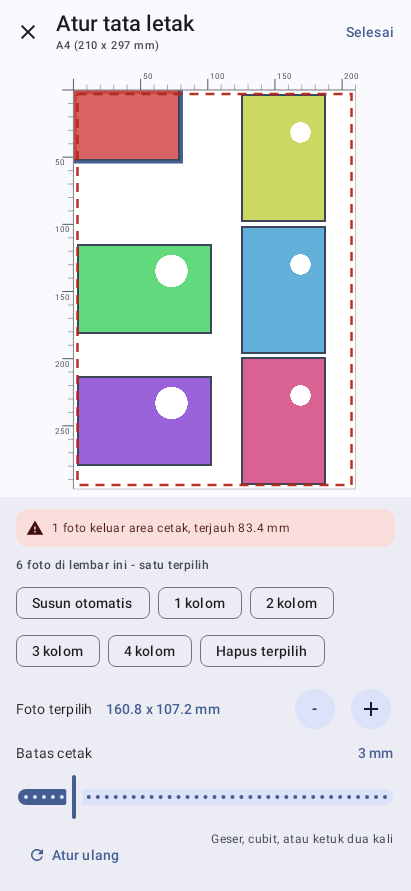
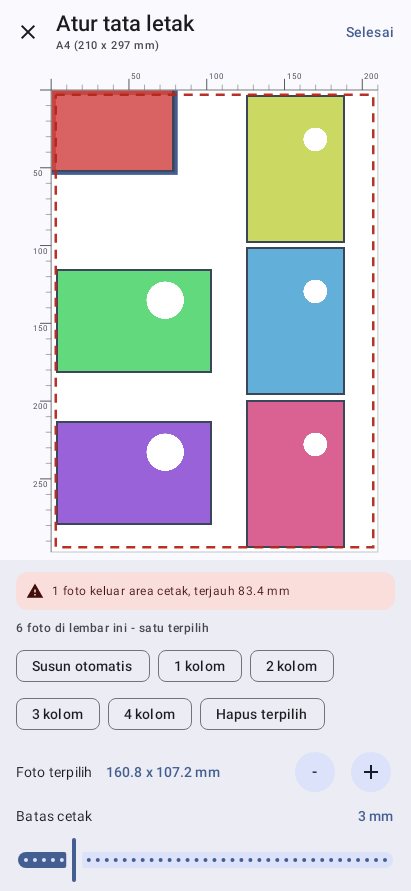
Ukuran kertas di editor tidak lagi berubah-ubah saat menggeser
Kertas mengambil "sisa ruang" setelah bilah kontrol, sedangkan tinggi bilah itu
berubah mengikuti isinya: peringatan terpotong muncul dan hilang, dan baris
margin melipat jadi dua ketika angkanya memanjang. Akibatnya kertas menyusut dan
membesar sendiri di tengah geseran.

Dampaknya bukan hanya kedipan. Skala kertas ikut berubah, sehingga jarak yang
sama di layar berarti milimeter yang berbeda -- gambar melompat. Lebih parah
lagi, PagePreview memakai skala dan posisi kertas sebagai kunci pointerInput,
dan mengubah kunci itu merestart detektor gestur sehingga sentuhan yang sedang
berjalan terputus. Itu yang membuat geseran terasa patah-patah.

Dua perbaikan:

1. Kertas dan bilah kontrol dibagi menurut bobot tetap dari tinggi layar, bukan
   menurut isi. Isi kontrol yang tidak muat digulir, bukan mendorong kertas
   mengecil.

2. Blok gestur di PagePreview dibuat stabil. Skala, titik asal, dan callback
   dibaca lewat rememberUpdatedState, sehingga detektor tidak pernah direstart
   walau kertas berganti ukuran karena sebab lain.

LayoutStabilityTest ditulis lebih dulu dan dipastikan gagal pada kode lama:
kertas menyusut dari 473 menjadi 407 piksel begitu peringatan muncul. Tiga
ujinya sekarang menjaga tinggi kertas tetap saat peringatan muncul, saat margin
diganti, dan sepanjang rangkaian geseran.

Sekalian: tombol "Atur ulang" disembunyikan di mode lembar karena duplikat
"Susun otomatis" yang sudah ada di atasnya.

diff --git a/app/src/main/java/com/escpr/usbprint/ui/LayoutEditorDialog.kt b/app/src/main/java/com/escpr/usbprint/ui/LayoutEditorDialog.kt
@@ -1,6 +1,8 @@
 package com.escpr.usbprint.ui
 
 import androidx.compose.foundation.layout.Arrangement
+import androidx.compose.foundation.rememberScrollState
+import androidx.compose.foundation.verticalScroll
 import androidx.compose.foundation.layout.ExperimentalLayoutApi
 import androidx.compose.foundation.layout.FlowRow
 import androidx.compose.foundation.layout.Box
@@ -34,6 +36,7 @@ import androidx.compose.material3.TopAppBar
 import androidx.compose.runtime.Composable
 import androidx.compose.ui.Alignment
 import androidx.compose.ui.Modifier
+import androidx.compose.ui.platform.testTag
 import androidx.compose.ui.text.font.FontWeight
 import androidx.compose.ui.text.style.TextAlign
 import androidx.compose.ui.unit.dp
@@ -108,12 +111,18 @@ internal fun LayoutEditorContent(
                 },
             )
 
-            // Kertas mendapat semua ruang yang tersisa.
+            // Kertas dan bilah kontrol dibagi menurut bobot tetap, bukan
+            // menurut isinya. Sebelumnya kertas mengambil "sisa ruang", jadi
+            // ketika peringatan terpotong muncul atau baris margin melipat jadi
+            // dua, kertas ikut menyusut. Itu bukan sekadar kedip: skala kertas
+            // berubah di tengah gestur, gambar melompat, dan geseran terasa
+            // patah-patah.
             Box(
                 Modifier
-                    .weight(1f)
+                    .weight(PREVIEW_WEIGHT)
                     .fillMaxWidth()
-                    .padding(horizontal = 12.dp, vertical = 8.dp),
+                    .padding(horizontal = 12.dp, vertical = 8.dp)
+                    .testTag(PREVIEW_TEST_TAG),
                 contentAlignment = Alignment.Center,
             ) {
                 PagePreview(
@@ -130,7 +139,7 @@ internal fun LayoutEditorContent(
                 )
             }
 
-            EditorControls(state, viewModel, layout)
+            EditorControls(state, viewModel, layout, Modifier.weight(CONTROLS_WEIGHT))
         }
     }
 }
@@ -140,12 +149,16 @@ private fun EditorControls(
     state: UiState,
     viewModel: PrintViewModel,
     layout: PageLayout,
+    modifier: Modifier = Modifier,
 ) {
-    Surface(tonalElevation = 3.dp) {
+    Surface(modifier, tonalElevation = 3.dp) {
+        // Tingginya sudah dipatok dari luar, jadi isi yang tidak muat digulir
+        // -- bukan mendorong kertas mengecil.
         Column(
             Modifier
                 .fillMaxWidth()
                 .navigationBarsPadding()
+                .verticalScroll(rememberScrollState())
                 .padding(horizontal = 16.dp, vertical = 12.dp),
             verticalArrangement = Arrangement.spacedBy(10.dp),
         ) {
@@ -210,17 +223,27 @@ private fun EditorControls(
                 steps = 39,
             )
 
-            Row(horizontalArrangement = Arrangement.spacedBy(8.dp)) {
-                TextButton(onClick = viewModel::resetPlacement) {
-                    Icon(Icons.Default.Refresh, contentDescription = null, modifier = Modifier.size(18.dp))
-                    Spacer(Modifier.width(6.dp))
-                    Text("Atur ulang")
+            Row(verticalAlignment = Alignment.CenterVertically) {
+                // Di mode lembar tombol ini duplikat "Susun otomatis" di atas,
+                // jadi tidak ditampilkan dua kali.
+                if (!state.sheetMode) {
+                    TextButton(onClick = viewModel::resetPlacement) {
+                        Icon(
+                            Icons.Default.Refresh,
+                            contentDescription = null,
+                            modifier = Modifier.size(18.dp),
+                        )
+                        Spacer(Modifier.width(6.dp))
+                        Text("Atur ulang")
+                    }
+                    Spacer(Modifier.weight(1f))
                 }
-                Spacer(Modifier.weight(1f))
                 Text(
                     "Geser, cubit, atau ketuk dua kali",
                     style = MaterialTheme.typography.bodySmall,
                     color = MaterialTheme.colorScheme.onSurfaceVariant,
+                    modifier = if (state.sheetMode) Modifier.fillMaxWidth() else Modifier,
+                    textAlign = if (state.sheetMode) TextAlign.Center else null,
                 )
             }
         }
@@ -288,6 +311,19 @@ private fun SheetControls(state: UiState, viewModel: PrintViewModel) {
         }
     }
 }
+
+/** Wadah kertas di editor; dipakai uji untuk memastikan ukurannya tidak berubah. */
+internal const val PREVIEW_TEST_TAG = "editorPreview"
+
+/**
+ * Pembagian ruang antara kertas dan bilah kontrol.
+ *
+ * Angkanya tetap dan tidak bergantung pada isi, itulah intinya. Bagian kontrol
+ * dibuat cukup lebar untuk keadaan terburuk -- mode lembar dengan peringatan
+ * terpotong dan chip yang melipat dua baris -- dan sisanya digulir.
+ */
+private const val PREVIEW_WEIGHT = 0.60f
+private const val CONTROLS_WEIGHT = 0.40f
 
 /** Satu langkah perbesaran tombol. 5% cukup halus untuk menyetel, tidak lambat. */
 private const val ZOOM_STEP = 1.05f

diff --git a/app/src/test/java/com/escpr/usbprint/LayoutStabilityTest.kt b/app/src/test/java/com/escpr/usbprint/LayoutStabilityTest.kt
@@ -1,0 +1,120 @@
+package com.escpr.usbprint
+
+import android.app.Application
+import android.graphics.Bitmap
+import android.graphics.Color
+import android.net.Uri
+import androidx.compose.runtime.collectAsState
+import androidx.compose.ui.test.junit4.createComposeRule
+import androidx.compose.ui.test.onNodeWithTag
+import androidx.test.core.app.ApplicationProvider
+import androidx.test.ext.junit.runners.AndroidJUnit4
+import com.escpr.usbprint.ui.LayoutEditorContent
+import com.escpr.usbprint.ui.PREVIEW_TEST_TAG
+import com.escpr.usbprint.ui.PrintViewModel
+import com.escpr.usbprint.ui.theme.AppTheme
+import kotlinx.coroutines.Dispatchers
+import org.junit.Assert.assertEquals
+import org.junit.Assert.assertTrue
+import org.junit.Rule
+import org.junit.Test
+import org.junit.runner.RunWith
+import org.robolectric.annotation.Config
+import java.io.File
+
+/**
+ * Ukuran kertas di editor tidak boleh berubah karena isi kontrol di bawahnya.
+ *
+ * Kertas mengambil sisa ruang setelah bilah kontrol. Kalau tinggi kontrol ikut
+ * berubah -- peringatan terpotong muncul, atau baris margin melipat jadi dua --
+ * kertas ikut menyusut. Akibatnya dua hal sekaligus: gambar melompat saat
+ * digeser, dan skala kertas berubah di tengah gestur sehingga detektor gestur
+ * direstart dan geserannya putus.
+ */
+@RunWith(AndroidJUnit4::class)
+@Config(sdk = [34], qualifiers = "w411dp-h891dp")
+class LayoutStabilityTest {
+
+    @get:Rule
+    val compose = createComposeRule()
+
+    private fun editorWithPhoto(): PrintViewModel {
+        val app = ApplicationProvider.getApplicationContext<Application>()
+        val viewModel = PrintViewModel(app, Dispatchers.Unconfined, Dispatchers.Unconfined)
+
+        compose.setContent {
+            AppTheme {
+                val current = viewModel.state.collectAsState().value
+                LayoutEditorContent(current, viewModel)
+            }
+        }
+
+        val bitmap = Bitmap.createBitmap(1400, 900, Bitmap.Config.ARGB_8888)
+        bitmap.eraseColor(Color.rgb(120, 190, 255))
+        val file = File(app.cacheDir, "stabil.png")
+        file.outputStream().use { bitmap.compress(Bitmap.CompressFormat.PNG, 100, it) }
+
+        viewModel.openDocument(Uri.fromFile(file))
+        compose.waitUntil(timeoutMillis = 10_000) {
+            viewModel.state.value.previewItems.isNotEmpty()
+        }
+        compose.waitForIdle()
+        return viewModel
+    }
+
+    private fun previewHeight(): Int =
+        compose.onNodeWithTag(PREVIEW_TEST_TAG).fetchSemanticsNode().size.height
+
+    @Test
+    fun `ukuran kertas tetap saat peringatan terpotong muncul`() {
+        val viewModel = editorWithPhoto()
+
+        val sebelum = previewHeight()
+        assertTrue("wadah kertas harus punya tinggi", sebelum > 0)
+        assertEquals(false, viewModel.state.value.sheetLayout.hasOverflow)
+
+        // Dorong foto sampai keluar area cetak: peringatan muncul di bawah.
+        viewModel.nudgePlacement(-70f, -70f, 1.6f)
+        compose.waitForIdle()
+        assertEquals(true, viewModel.state.value.sheetLayout.hasOverflow)
+
+        val sesudah = previewHeight()
+        assertEquals(
+            "kertas menyusut dari $sebelum jadi $sesudah ketika peringatan muncul",
+            sebelum, sesudah
+        )
+    }
+
+    @Test
+    fun `ukuran kertas tetap saat kertas dan margin diganti`() {
+        val viewModel = editorWithPhoto()
+        val sebelum = previewHeight()
+
+        // Margin lebar memperpanjang angka pada baris margin, dan pada mode
+        // dokumen baris itulah yang paling mudah melipat jadi dua baris.
+        viewModel.updateSettings { it.copy(marginMm = 18.5f) }
+        compose.waitForIdle()
+
+        assertEquals(
+            "kertas berubah tinggi hanya karena teks margin memanjang",
+            sebelum, previewHeight()
+        )
+    }
+
+    @Test
+    fun `ukuran kertas tetap sepanjang rangkaian geseran`() {
+        val viewModel = editorWithPhoto()
+        val tinggi = mutableSetOf<Int>()
+
+        repeat(6) { step ->
+            viewModel.nudgePlacement(-18f, -12f, if (step % 2 == 0) 1.15f else 1f)
+            compose.waitForIdle()
+            tinggi += previewHeight()
+        }
+
+        assertEquals(
+            "tinggi kertas berubah-ubah selama digeser: $tinggi",
+            1, tinggi.size
+        )
+    }
+}

diff --git a/app/src/main/java/com/escpr/usbprint/ui/PagePreview.kt b/app/src/main/java/com/escpr/usbprint/ui/PagePreview.kt
@@ -9,7 +9,9 @@ import androidx.compose.foundation.layout.offset
 import androidx.compose.material3.MaterialTheme
 import androidx.compose.material3.Text
 import androidx.compose.runtime.Composable
+import androidx.compose.runtime.getValue
 import androidx.compose.runtime.remember
+import androidx.compose.runtime.rememberUpdatedState
 import androidx.compose.ui.Alignment
 import androidx.compose.ui.Modifier
 import androidx.compose.ui.geometry.Offset
@@ -98,21 +100,32 @@ fun PagePreview(
         val originX = gutterPx + (widthPx - gutterPx - paperWidthPx) / 2f
         val originY = gutterPx + (heightPx - gutterPx - paperHeightPx) / 2f
 
+        // Nilai-nilai ini berubah setiap kali kertas berganti ukuran. Kalau
+        // dipakai sebagai kunci pointerInput, detektor gestur direstart di
+        // tengah geseran dan sentuhan pengguna terputus. Karena itu blok gestur
+        // dibuat stabil dan nilainya dibaca lewat state yang selalu terbarui.
+        val currentScale by rememberUpdatedState(paperScale)
+        val currentOriginX by rememberUpdatedState(originX)
+        val currentOriginY by rememberUpdatedState(originY)
+        val currentGesture by rememberUpdatedState(onGesture)
+        val currentTap by rememberUpdatedState(onTapMm)
+        val currentReset by rememberUpdatedState(onReset)
+
         val gestureModifier = if (!interactive) Modifier else Modifier
-            .pointerInput(paperScale, originX, originY) {
+            .pointerInput(Unit) {
                 detectTransformGestures { _, pan, zoom, _ ->
-                    onGesture(pan.x / paperScale, pan.y / paperScale, zoom)
+                    currentGesture(pan.x / currentScale, pan.y / currentScale, zoom)
                 }
             }
-            .pointerInput(paperScale, originX, originY) {
+            .pointerInput(Unit) {
                 detectTapGestures(
                     onTap = { offset ->
-                        onTapMm(
-                            (offset.x - originX) / paperScale,
-                            (offset.y - originY) / paperScale,
+                        currentTap(
+                            (offset.x - currentOriginX) / currentScale,
+                            (offset.y - currentOriginY) / currentScale,
                         )
                     },
-                    onDoubleTap = { onReset() },
+                    onDoubleTap = { currentReset() },
                 )
             }
 

diff --git a/README.md b/README.md
@@ -45,11 +45,12 @@ untuk mengujinya, jadi batas antara "terbukti" dan "belum" dijaga ketat.
 | Layar utama dan editor tata letak tersusun dan bisa disentuh | Robolectric, 17 uji |
 | Susunan banyak foto: kisi, geser, ukur, pilih, potong | 16 uji lembar |
 | ViewModel bisa dibuat lewat factory bawaan seperti `by viewModels()` | 2 uji |
+| Ukuran kertas di editor tidak berubah saat isi kontrol berubah | 3 uji stabilitas |
 | Penempatan manual, pemotongan, dan pembatas geseran | 15 uji tata letak |
 | Tampilan benar-benar tergambar | tangkapan layar dari komposisi Compose di JVM |
 | APK terkompilasi, tertandatangani, zipalign, manifes benar | `apksigner`, `zipalign`, `aapt2` |
 
-**75 unit test**, semuanya lolos: `gradlew test`.
+**78 unit test**, semuanya lolos: `gradlew test`.
 
 ### Belum terbukti
 
@@ -204,6 +205,22 @@ menyuntikkan dispatcher langsung sehingga semuanya berjalan tanpa bergantung
 pada penjadwalan utas -- itu menghapus satu kelas kerapuhan yang sebelumnya
 muncul berulang.
 
+### Kenapa kertas dan kontrol dibagi menurut bobot tetap
+
+Kertas di editor tidak mengambil "sisa ruang" setelah bilah kontrol, melainkan
+porsi tetap dari tinggi layar. Alasannya bukan estetika: bilah kontrol berubah
+tinggi ketika peringatan terpotong muncul atau baris margin melipat jadi dua.
+Kalau kertas mengambil sisanya, ia ikut menyusut -- gambar melompat saat digeser,
+dan yang lebih parah, skala kertas berubah di tengah gestur.
+
+Isi kontrol yang tidak muat digulir, bukan mendorong kertas mengecil.
+
+`PagePreview` juga tidak lagi memakai skala dan posisi kertas sebagai kunci
+`pointerInput`. Nilai-nilai itu berubah setiap kertas berganti ukuran, dan
+mengubah kunci `pointerInput` akan merestart detektor gestur sehingga sentuhan
+yang sedang berjalan terputus. Sekarang nilainya dibaca lewat
+`rememberUpdatedState` dari blok gestur yang stabil.
+
 ### Kenapa editornya layar penuh
 
 Mengatur posisi dan ukuran dengan jari butuh kertas sebesar mungkin. Di kartu
@@ -250,10 +267,10 @@ pemeriksaan langsung, bukan tebakan dari isi pesan.
 ```bash
 gradlew assembleRelease    # APK rilis, tertandatangani
 gradlew assembleDebug      # APK debug
-gradlew test               # 75 unit test
+gradlew test               # 78 unit test
 ```
 
-Nama berkas APK memuat nomor versi (`Printigo-v1.7-release.apk`), jadi dua
+Nama berkas APK memuat nomor versi (`Printigo-v1.8-release.apk`), jadi dua
 build berbeda tidak pernah bernama sama. Versi yang sama juga tampil di bawah
 judul aplikasi, supaya bisa disebutkan saat melaporkan masalah.
 
@@ -352,7 +369,8 @@ legacy persegi dan bulat di lima kerapatan layar plus lapisan ikon adaptif.
 
 | Versi | Isi |
 |---|---|
-| **1.7** | Tombol Simpan .prn dan Cetak tidak lagi tertutup bilah navigasi sistem: bilah bawah kini menerima inset navigasi, begitu pula kontrol di editor tata letak |
+| **1.8** | Ukuran kertas di editor tidak lagi berubah-ubah. Sebelumnya kertas mengambil sisa ruang, jadi munculnya peringatan terpotong atau melipatnya baris margin membuat kertas menyusut, gambar melompat, dan geseran terputus di tengah jalan |
+| 1.7 | Tombol Simpan .prn dan Cetak tidak lagi tertutup bilah navigasi sistem: bilah bawah kini menerima inset navigasi, begitu pula kontrol di editor tata letak |
 | 1.6 | Perbaikan mati saat dibuka: konstruktor `PrintViewModel` kehilangan tanda tangan `(Application)` yang dicari factory bawaan, karena parameter dispatcher yang ditambahkan di 1.5. Ditambah uji yang membuat ViewModel lewat jalur yang sama dengan `by viewModels()` |
 | 1.5 | Banyak foto dalam satu lembar: tambah sekaligus, susun otomatis 1-4 kolom, pilih dengan menyentuh, geser dan ubah ukuran per foto, hapus yang terpilih; dispatcher ViewModel bisa disuntik |
 | 1.4 | Pengaturan tata letak pindah ke editor layar penuh yang dibuka dengan mengetuk pratinjau; tombol perbesar/perkecil bertahap; ukuran isi dan batas cetak bisa diatur di satu tempat |
